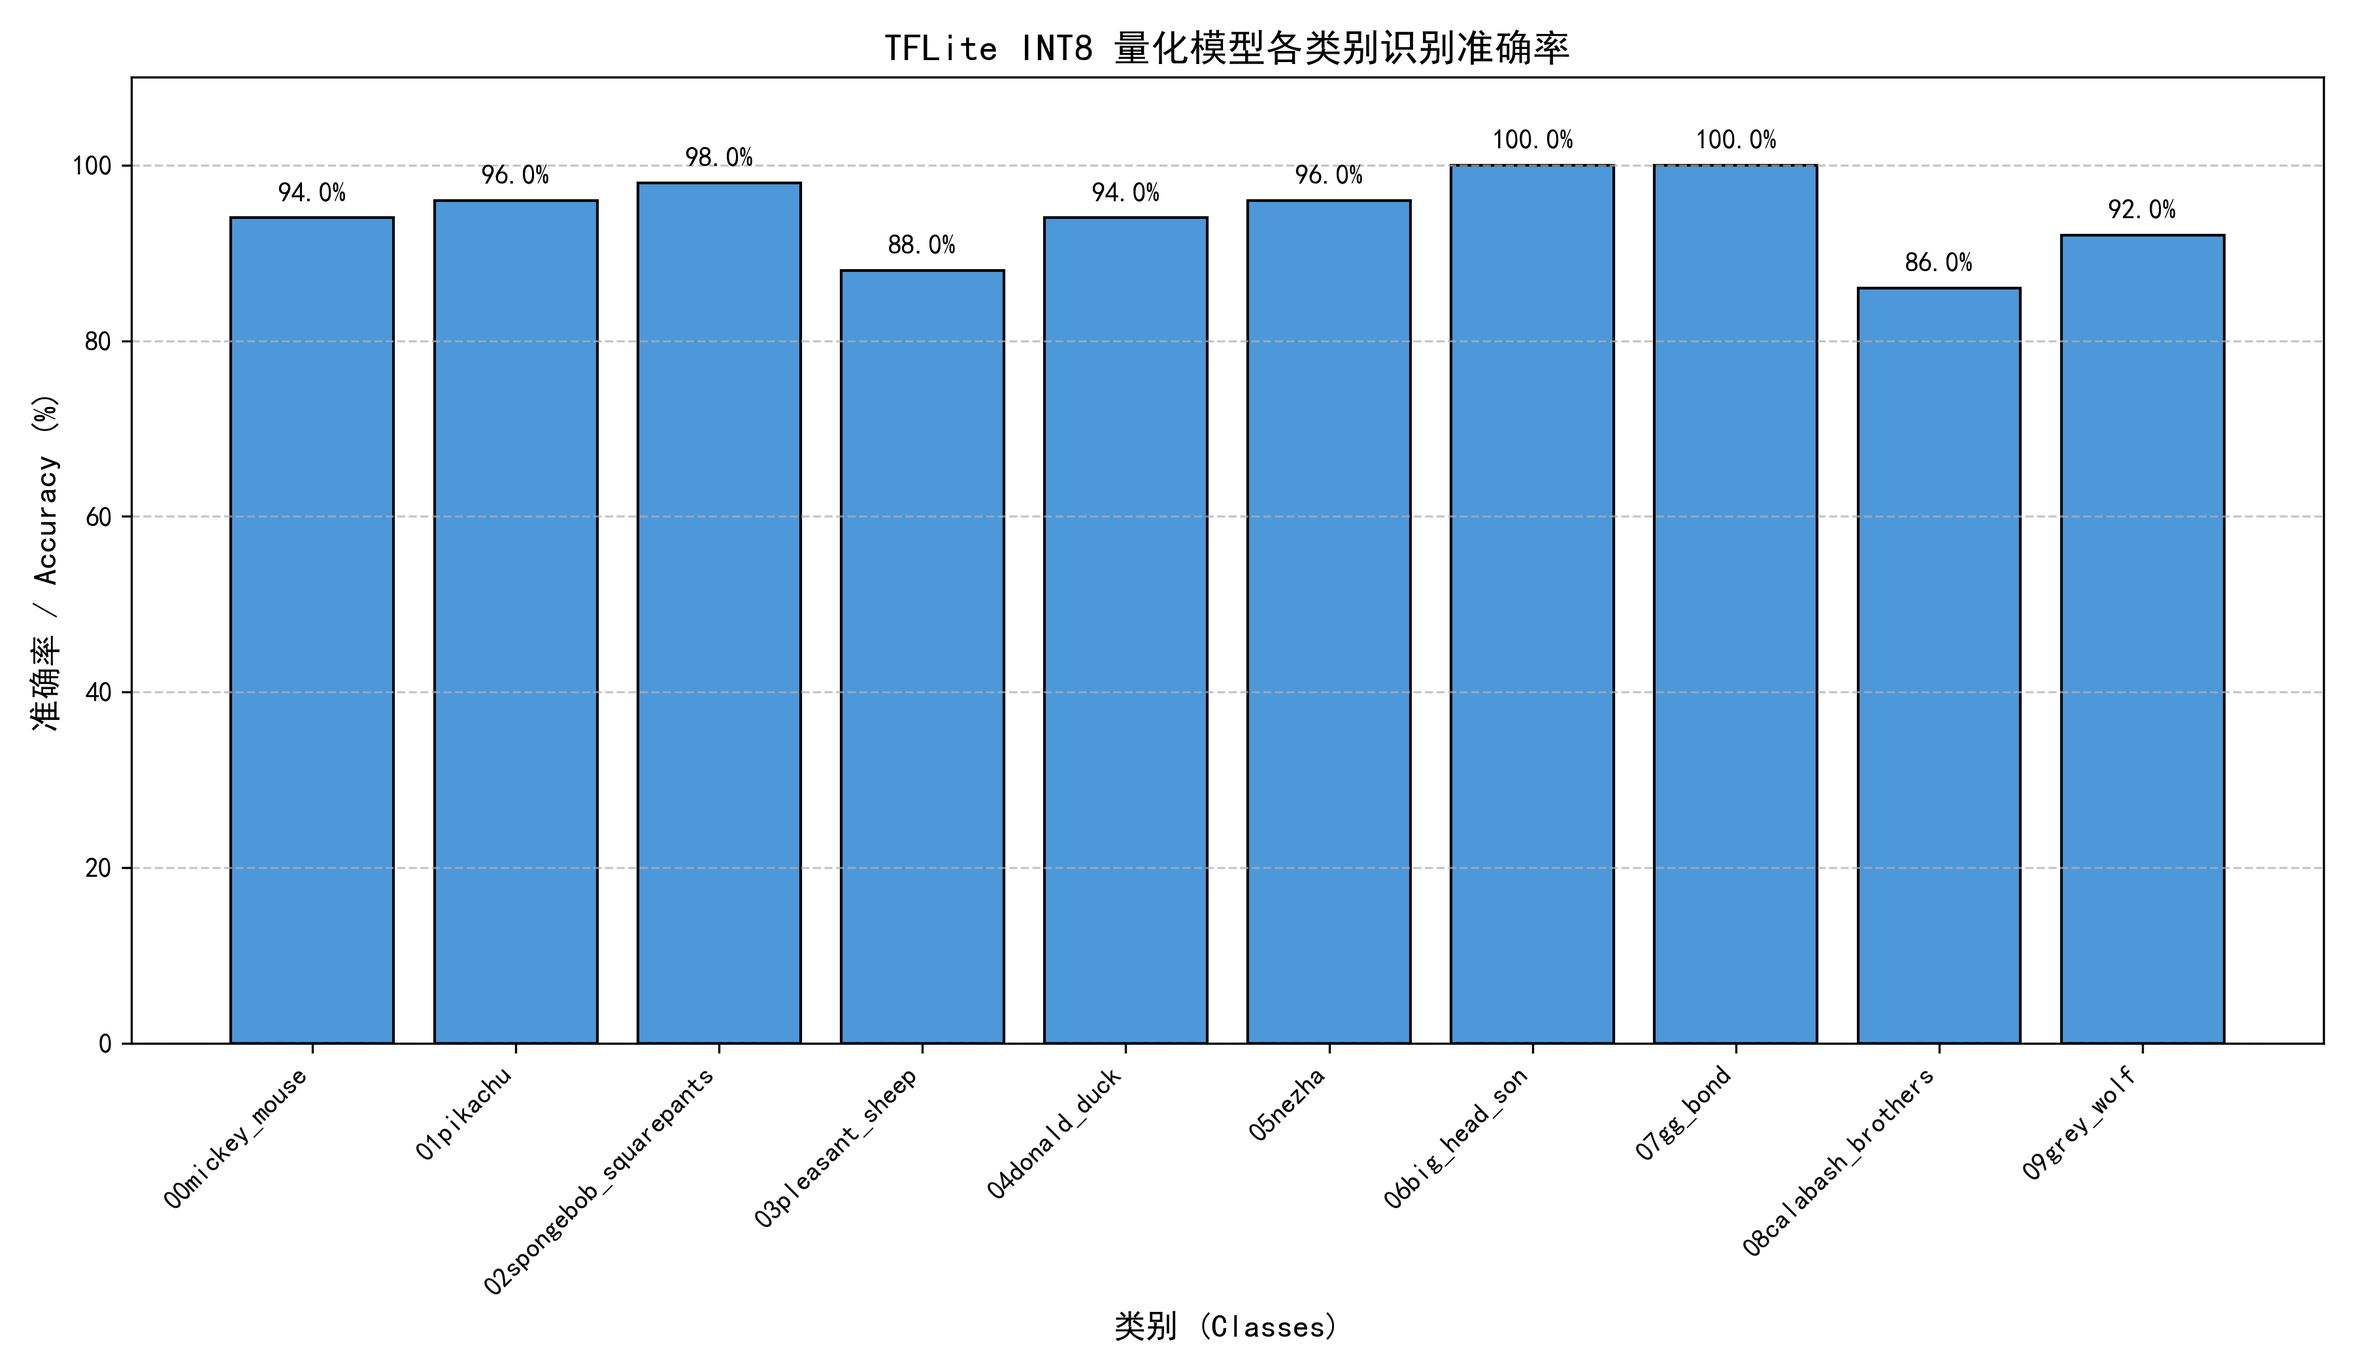
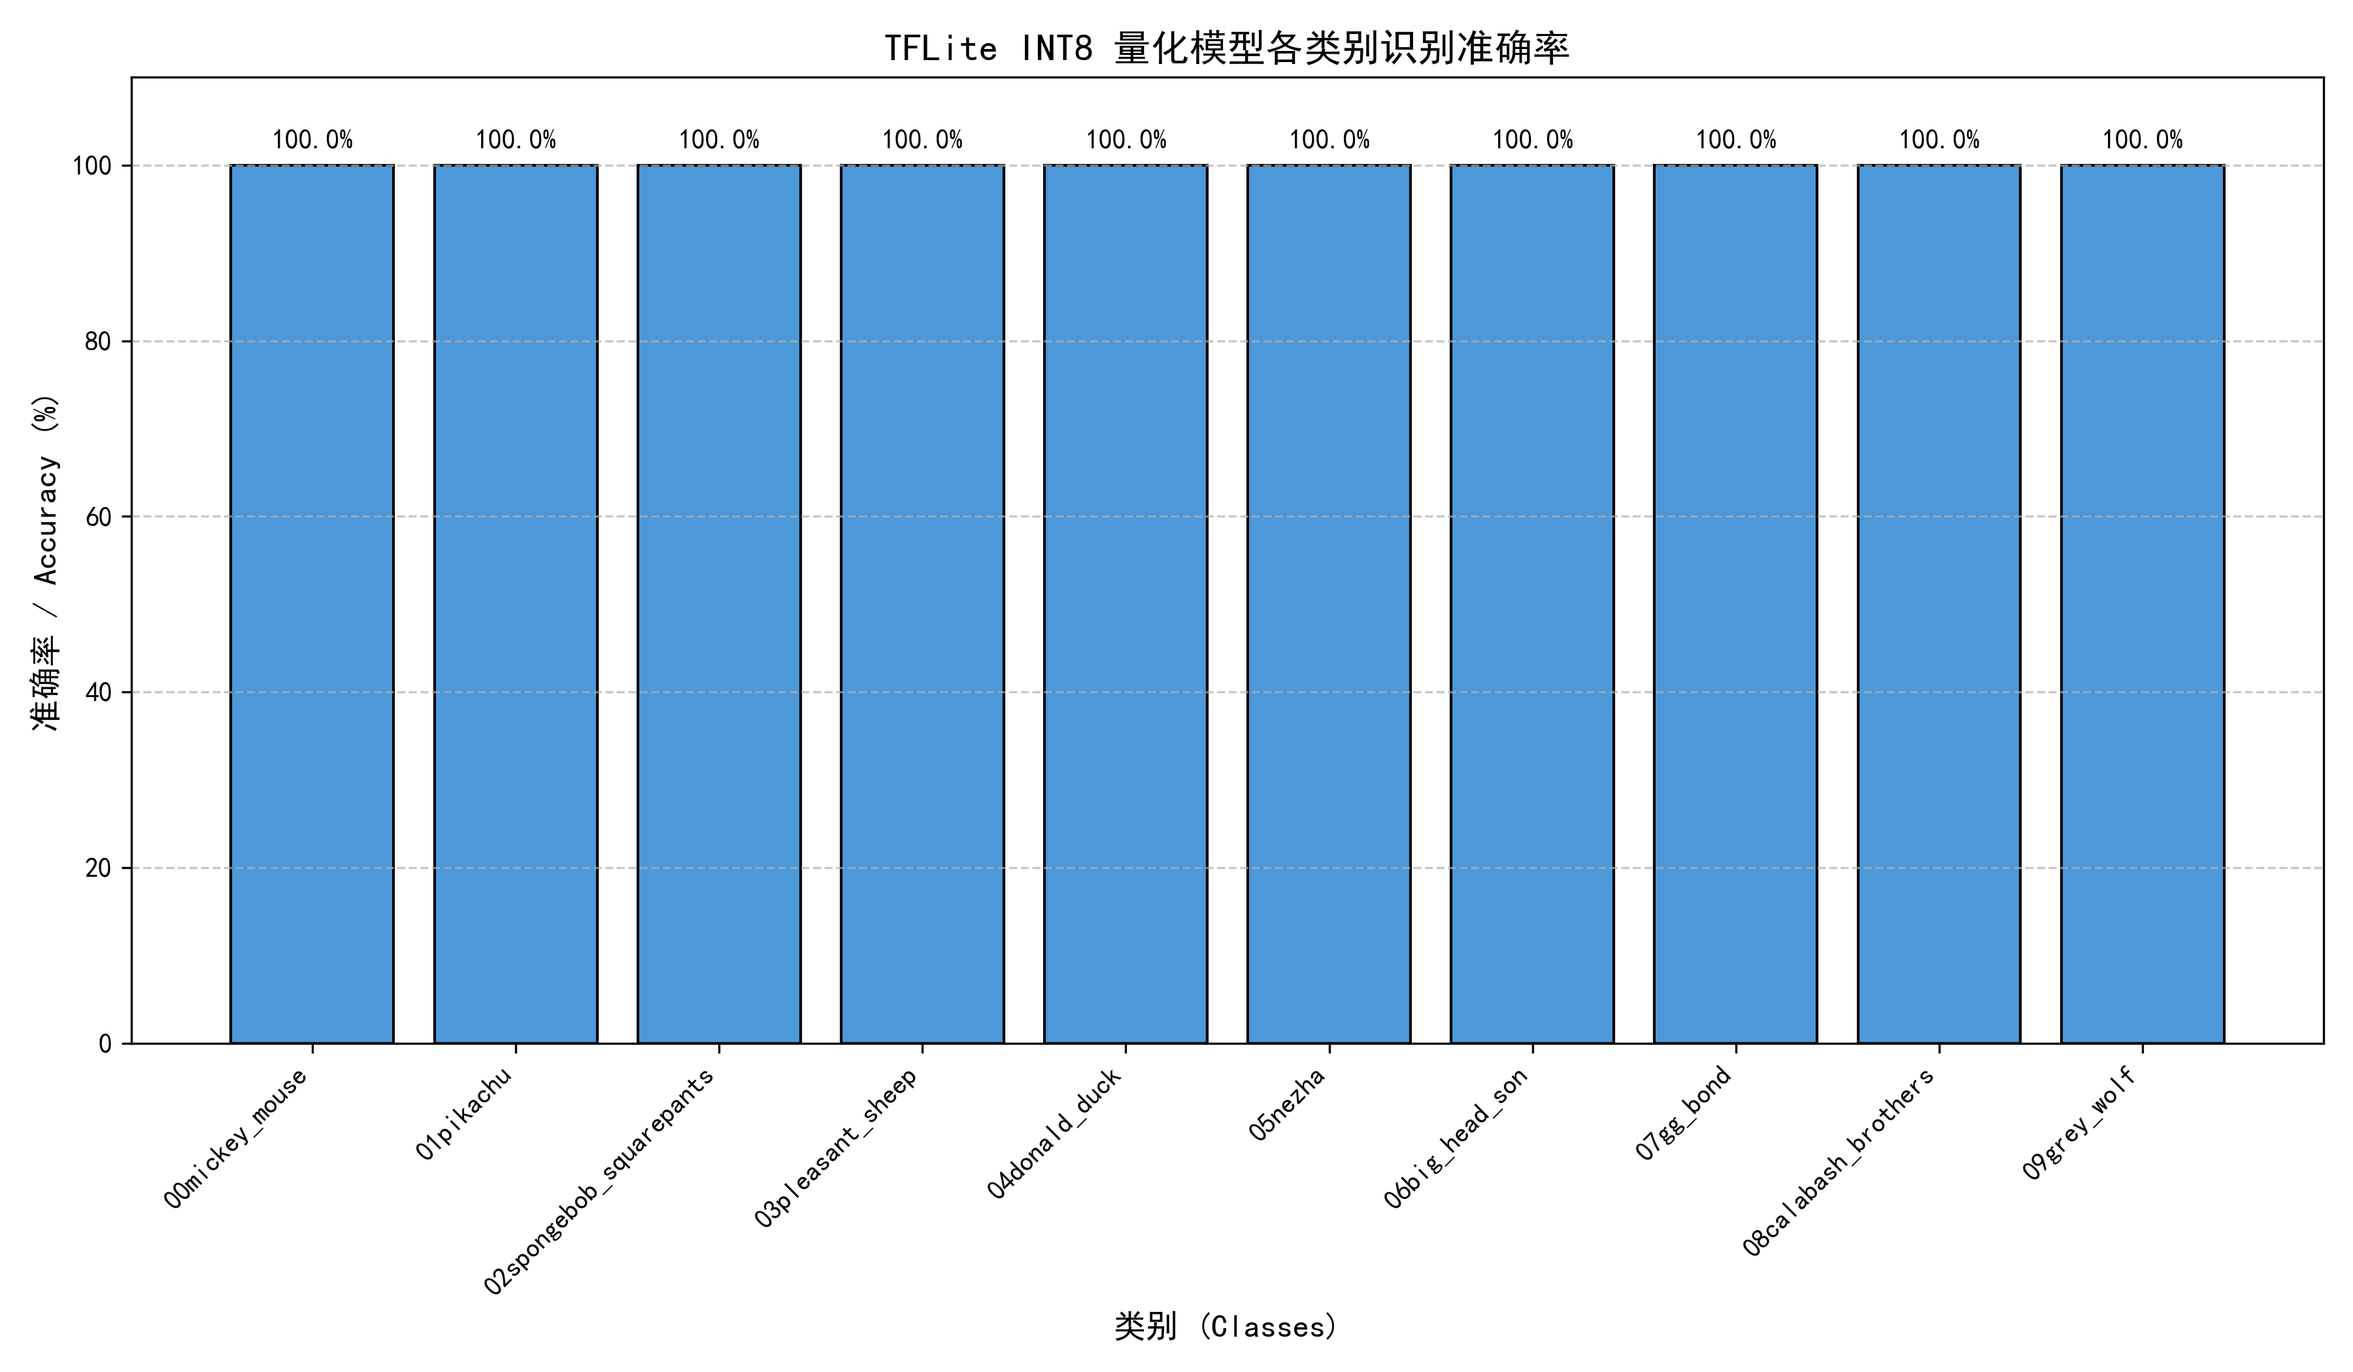
tijiao

Changed region(s): [[0.0933, 0.0929, 0.6222, 0.2167], [0.7778, 0.0929, 0.9644, 0.2167]]

diff --git a/dataset_add.py b/dataset_add.py
@@ -1,25 +1,35 @@
 import os
 import random
 import glob
-from PIL import Image, ImageEnhance
+import numpy as np
+from PIL import Image, ImageEnhance, ImageFilter
 from tqdm import tqdm
 
-# ================= 配置区域 =================
-# 文件夹路径设置
-FG_DIR = "dataset_orign/cartooon_character"  # 前景图目录
-BG_DIR = "dataset_background"                # 背景图目录（保持原始大小，如 208x150）
-OUT_DIR = "dataset_dealed/added_cartoon"                   # 生成的合成数据集输出目录
+# ================= 配置區域 =================
+# 1. 數據夾路徑設置
+FG_DIR = "dataset_orign/cartooon_character"  # 前景圖目錄
+BG_DIR = "dataset_background"                # 背景圖目錄（保持原始大小，如 208x150）
+OUT_DIR = "dataset_new_dealed/added_cartoon"     # 生成的合成數據集輸出目錄
 
-# 参数设置
-NUM_PER_CLASS = 500           # 每个类别想要生成的图片数量
+# 2. 基礎生成參數
+NUM_PER_CLASS = 1000           # 每個類別想要生成的圖片數量
+FG_SCALE_RANGE = (90, 140)    # 前景圖隨機縮放範圍
 
-BRIGHTNESS_RANGE = (0.5, 1.0) 
-
-FG_SCALE_RANGE = (90, 130)    
+# --------------------------------------------
+# 3. ⭐ 實拍數據增強參數 (Sim2Real 調整區) ⭐
+# 你可以根據實拍圖的劣化程度，隨時在這裡微調這些參數
+# --------------------------------------------
+SIM_CONTRAST_RANGE = (0.8, 1)     # 全局對比度範圍 (降低對比度以模擬螢幕發白)
+SIM_BRIGHTNESS_RANGE = (0.7, 1.2)   # 全局亮度範圍
+SIM_SATURATION_RANGE = (0.8, 1)   # 全局色彩飽和度 (實拍圖通常色彩會變淡)
+SIM_ROTATION_RANGE = (-3, 3)        # 隨機旋轉角度 (模擬單片機/攝像頭輕微歪斜)
+SIM_BLUR_RADIUS = (0.2,0.5)        # 高斯模糊半徑 (模擬鏡頭失焦/邊緣模糊)
+SIM_NOISE_INTENSITY = 6           # CMOS 噪點強度 (數值越大雪花點越多，0-255)
+SIM_SCANLINE_INTENSITY = (8, 16)    # 螢幕掃描線/摩爾紋的強度 (透明度範圍)
 # ============================================
 
 def setup_directories(classes):
-    """在输出目录中创建对应的类别文件夹"""
+    """在輸出目錄中創建對應的類別數據夾"""
     if not os.path.exists(OUT_DIR):
         os.makedirs(OUT_DIR)
     for cls_name in classes:
@@ -28,7 +38,7 @@ def setup_directories(classes):
             os.makedirs(cls_path)
 
 def get_image_paths(directory):
-    """获取目录下所有的图片路径（自动去重）"""
+    """獲取目錄下所有的圖片路徑（自動去重）"""
     valid_exts = ('*.png', '*.jpg', '*.jpeg', '*.bmp')
     paths = []
     for ext in valid_exts:
@@ -36,52 +46,128 @@ def get_image_paths(directory):
         paths.extend(glob.glob(os.path.join(directory, ext.upper())))
     return list(set(paths))
 
+def generate_moire_pattern(size, intensity=15):
+    """
+    使用二維正弦波干涉來模擬真實螢幕拍攝時的彎曲摩爾紋
+    """
+    w, h = size
+    x = np.arange(w)
+    y = np.arange(h)
+    X, Y = np.meshgrid(x, y)
+
+    # 1. 隨機生成干涉中心點 (模擬鏡頭與螢幕的不完全平行)
+    # 中心點可以偏出畫面外，這樣能產生大弧度的波浪紋
+    cx = random.randint(-w, w * 2)
+    cy = random.randint(-h, h * 2)
+    
+    # 計算每個像素點到干涉中心的距離
+    R = np.sqrt((X - cx)**2 + (Y - cy)**2)
+    
+    # 2. 模擬螢幕底層的物理網格頻率 (高頻)
+    # freq_base 決定了底層網格的細密程度
+    freq_x = random.uniform(0.5, 1.5)
+    freq_y = random.uniform(0.5, 1.5)
+    base_grid = np.sin(X * freq_x) * np.sin(Y * freq_y)
+    
+    # 3. 模擬鏡頭與螢幕疊加產生的空間干涉波紋 (低頻彎曲波)
+    # freq_r 決定了摩爾紋同心圓/波浪的寬窄
+    freq_r = random.uniform(0.02, 0.1)
+    interference = np.sin(R * freq_r)
+    
+    # 4. 將網格與干涉波相乘，得出最終的摩爾紋形狀
+    pattern = base_grid * interference
+    
+    # 5. 歸一化並轉換為 Alpha 透明通道
+    # pattern 的範圍原本是 -1 到 1，將其平移映射到 0 到 1
+    pattern = (pattern + 1) / 2.0 
+    
+    # 根據 intensity 參數控制摩爾紋的深淺
+    alpha = (pattern * intensity).astype(np.uint8)
+    
+    # 6. 【可選增強】：真實的摩爾紋往往帶有輕微的 RGB 色偏
+    # 這裡我們創建一個稍微偏灰黑色的圖層，你也可以加入微弱的彩色噪點
+    color_layer = np.zeros((h, w, 3), dtype=np.uint8) 
+    
+    # 為了模擬螢幕發光中的暗條紋，將顏色設為深灰黑
+    # color_layer[:, :] = [30, 30, 30] 
+    
+    rgba = np.dstack((color_layer, alpha))
+    return Image.fromarray(rgba, mode='RGBA')
+
+def apply_sim2real_augmentation(image):
+    """將合成好的完美圖片，劣化為單片機實拍效果"""
+    
+    # 1. 降低對比度 (模擬螢幕反光泛白)
+    if random.random() < 0.8:
+        image = ImageEnhance.Contrast(image).enhance(random.uniform(*SIM_CONTRAST_RANGE))
+    
+    # 2. 調整亮度
+    if random.random() < 0.8:
+        image = ImageEnhance.Brightness(image).enhance(random.uniform(*SIM_BRIGHTNESS_RANGE))
+        
+    # 3. 降低飽和度
+    if random.random() < 0.7:
+        image = ImageEnhance.Color(image).enhance(random.uniform(*SIM_SATURATION_RANGE))
+
+    # 4. 輕微旋轉 (模擬攝像頭沒對正，expand=False 確保圖片大小不變)
+    angle = random.uniform(*SIM_ROTATION_RANGE)
+    image = image.rotate(angle, expand=False, resample=Image.BICUBIC)
+
+    # 5. 高斯模糊 (模擬鏡頭低畫質與失焦)
+    if random.random() < 0.7:
+        blur = random.uniform(*SIM_BLUR_RADIUS)
+        image = image.filter(ImageFilter.GaussianBlur(radius=blur))
+
+    # 6. CMOS 噪點 (ISO 噪點)
+    if random.random() < 0.8:
+        img_array = np.array(image, dtype=np.int16)
+        noise = np.random.normal(0, SIM_NOISE_INTENSITY, img_array.shape)
+        img_array = np.clip(img_array + noise, 0, 255).astype(np.uint8)
+        image = Image.fromarray(img_array)
+
+    # 7. 螢幕掃描線/摩爾紋疊加 (最關鍵的特徵)
+    intensity = random.randint(*SIM_SCANLINE_INTENSITY)
+    scanlines = generate_moire_pattern(image.size, intensity=intensity)
+    image = Image.alpha_composite(image.convert('RGBA'), scanlines).convert('RGB')
+    
+    return image
+
+
 def synthesize_images():
     bg_paths = get_image_paths(BG_DIR)
     if not bg_paths:
-        raise ValueError(f"在 {BG_DIR} 中没有找到背景图片！")
+        raise ValueError(f"在 {BG_DIR} 中沒有找到背景圖片！")
 
     classes = [d for d in os.listdir(FG_DIR) if os.path.isdir(os.path.join(FG_DIR, d))]
     if not classes:
-        raise ValueError(f"在 {FG_DIR} 中没有找到类别文件夹！")
+        raise ValueError(f"在 {FG_DIR} 中沒有找到類別數據夾！")
     
     setup_directories(classes)
     
-    print(f"检测到 {len(classes)} 个类别: {classes}")
-    print(f"检测到 {len(bg_paths)} 张背景图")
-    print(f"开始生成数据集，每类生成 {NUM_PER_CLASS} 张...\n")
+    print(f"檢測到 {len(classes)} 個類別: {classes}")
+    print(f"檢測到 {len(bg_paths)} 張背景圖")
+    print(f"開始生成抗干擾數據集，每類生成 {NUM_PER_CLASS} 張...\n")
 
     for cls_name in classes:
         cls_dir = os.path.join(FG_DIR, cls_name)
         fg_paths = get_image_paths(cls_dir)
         
         if not fg_paths:
-            print(f"警告：类别 {cls_name} 中没有图片，跳过。")
+            print(f"警告：類別 {cls_name} 中沒有圖片，跳過。")
             continue
 
-        print(f"正在生成类别 [{cls_name}] 的数据...")
+        print(f"正在生成類別 [{cls_name}] 的數據...")
         for i in tqdm(range(NUM_PER_CLASS)):
             bg_path = random.choice(bg_paths)
             fg_path = random.choice(fg_paths)
 
-            # 1. 打开图像并统一转为 RGB 格式
+            # 1. 打開圖像並轉為 RGB
             bg_img = Image.open(bg_path).convert("RGB")
             fg_img = Image.open(fg_path).convert("RGB")
-            
-            # 获取当前背景图的实际大小 (比如 208x150)
             bg_w, bg_h = bg_img.size
 
-            # 2. 【修改点】：亮度数据增强 (仅针对前景图)
-            enhancer = ImageEnhance.Brightness(fg_img)
-            # 在设定范围内随机取一个亮度系数
-            brightness_factor = random.uniform(BRIGHTNESS_RANGE[0], BRIGHTNESS_RANGE[1])
-            fg_img = enhancer.enhance(brightness_factor)
-
-            # 3. 处理前景：等比缩放，并防止前景图大于背景图
-            # 动态计算安全的最大边长（留 5 个像素的边距）
+            # 2. 處理前景：等比縮放
             safe_max_size = min(bg_w, bg_h) - 5 
-            
-            # 如果配置的最小值都比背景大，就强行限制住
             safe_min_scale = min(FG_SCALE_RANGE[0], safe_max_size)
             safe_max_scale = min(FG_SCALE_RANGE[1], safe_max_size)
             
@@ -92,21 +178,23 @@ def synthesize_images():
             new_w, new_h = int(w * ratio), int(h * ratio)
             fg_img = fg_img.resize((new_w, new_h), Image.Resampling.BILINEAR)
 
-            # 4. 计算随机粘贴的位置
+            # 3. 計算隨機黏貼的位置並組合 (此時還是完美的合成圖)
             max_x = max(0, bg_w - new_w)
             max_y = max(0, bg_h - new_h)
             paste_x = random.randint(0, max_x)
             paste_y = random.randint(0, max_y)
 
-            # 5. 叠加图片
             bg_img.paste(fg_img, (paste_x, paste_y))
             
-            # 6. 保存图片
+            # 4. ⭐ 核心：對整張組合後的圖片進行實拍劣化模擬 ⭐
+            final_img = apply_sim2real_augmentation(bg_img)
+            
+            # 5. 保存圖片 (適當降低 JPEG 質量以增加真實感)
             save_name = f"{cls_name}_{i:04d}.jpg"
             save_path = os.path.join(OUT_DIR, cls_name, save_name)
-            bg_img.save(save_path, quality=95)
+            final_img.save(save_path, quality=85)
 
-    print("\n✅ 数据集生成完毕！已保存在:", OUT_DIR)
+    print("\n✅ 實拍風格數據集生成完畢！已保存在:", OUT_DIR)
 
 if __name__ == "__main__":
     synthesize_images()

diff --git a/trainGPU_mobilenet_v2.py b/trainGPU_mobilenet_v2.py
@@ -24,7 +24,7 @@ def main():
             exit(-1)
 
     data_root = os.path.abspath(os.path.join(os.getcwd(), ""))  # get data root path
-    image_path = os.path.join(data_root, "", "dataset_dealed")  
+    image_path = os.path.join(data_root, "", "dataset_new_dealed")  
     train_dir = os.path.join(image_path, "train")
     validation_dir = os.path.join(image_path, "val")
     assert os.path.exists(train_dir), "cannot find {}".format(train_dir)
@@ -36,8 +36,8 @@ def main():
 
     im_height = 160
     im_width = 160
-    batch_size = 48
-    epochs = 30
+    batch_size = 64
+    epochs = 150
 
     # class dict
     data_class = [cla for cla in os.listdir(train_dir) if os.path.isdir(os.path.join(train_dir, cla))]
@@ -114,8 +114,8 @@ def main():
     model.summary()
 
     # using keras low level api for training
-    loss_object = tf.keras.losses.CategoricalCrossentropy(from_logits=True)
-    optimizer = tf.keras.optimizers.Adam(learning_rate=0.001)
+    loss_object = tf.keras.losses.CategoricalCrossentropy(from_logits=True,label_smoothing=0.1)
+    optimizer = tf.keras.optimizers.experimental.AdamW(learning_rate=0.001,weight_decay=1e-4,jit_compile=False)
 
     train_loss = tf.keras.metrics.Mean(name='train_loss')
     train_accuracy = tf.keras.metrics.CategoricalAccuracy(name='train_accuracy')
@@ -179,7 +179,7 @@ def main():
 
         if test_loss.result() < best_test_loss:
             best_test_loss = test_loss.result()
-            save_path = f"./save_weights/epoch{epochs}_batch{batch_size}_learningrate0.001_wh{im_height}.ckpt"
+            save_path = f"./save_weights/new_epoch{epochs}_batch{batch_size}_adamW_lr0.001_wh{im_height}/new_epoch{epochs}_batch{batch_size}_adamW_lr0.001_wh{im_height}.ckpt"
             model.save_weights(save_path, save_format='tf')
 
 

diff --git a/convert_tflite.py b/convert_tflite.py
@@ -8,8 +8,8 @@ im_height = 160
 im_width = 160
 num_classes = 10
 alpha = 0.35  # 确保这里和你 trainGPU_mobilenet_v2.py 里的保持一致
-weights_path = 'save_weights\epoch30_batch32_learningrate0.001_test_loss0.2049214243888855_wh160.ckpt'
-dataset_dir = './dataset_dealed/val' # 使用验证集的一小部分作为代表性数据
+weights_path = r'save_weights\new_epoch150_batch64_adamW_lr0.001_wh160\new_epoch150_batch64_adamW_lr0.001_wh160.ckpt'
+dataset_dir = './dataset_new_dealed/val' # 使用验证集的一小部分作为代表性数据
 
 def main():
     # ================= 2. 实例化模型并加载权重 =================
@@ -54,7 +54,7 @@ def main():
     tflite_quant_model = converter.convert()
 
     # ================= 5. 保存量化模型 =================
-    save_path = 'save_weights\epoch30_batch32_learningrate0.001_test_loss0.2049214243888855_wh160.tflite'
+    save_path = r'save_weights\new_epoch150_batch64_adamW_lr0.001_wh160\new_epoch150_batch64_adamW_lr0.001_wh160'+'.tflite'
     with open(save_path, 'wb') as f:
         f.write(tflite_quant_model)
     print(f"转换成功！全整型量化模型已保存至: {save_path}")

diff --git a/predict_tflite.py b/predict_tflite.py
@@ -9,8 +9,8 @@ from tqdm import tqdm
 def main():
     # ================= 1. 配置路径 =================
     # 【注意】请将下面的路径替换为你实际生成的 tflite 模型名！
-    tflite_path = "save_weights\epoch30_batch32_learningrate0.001_test_loss0.2049214243888855_wh160.tflite" 
-    test_images_dir = "./dataset_dealed/val"
+    tflite_path = r"save_weights\new_epoch150_batch64_adamW_lr0.001_wh160\new_epoch150_batch64_adamW_lr0.001_wh160.tflite" 
+    test_images_dir = r"dataset_new_dealed\val"
     im_height, im_width = 160, 160
     
     # ================= 2. 加载类别索引映射 =================

diff --git a/split_data.py b/split_data.py
@@ -19,7 +19,7 @@ def main():
 
     # 指向你解压后的flower_photos文件夹
     cwd = os.getcwd()
-    data_root = os.path.join(cwd, "dataset_dealed")
+    data_root = os.path.join(cwd, "dataset_new_dealed")
     origin_flower_path = os.path.join(data_root, "added_cartoon")
     assert os.path.exists(origin_flower_path), "path '{}' does not exist.".format(origin_flower_path)
 
